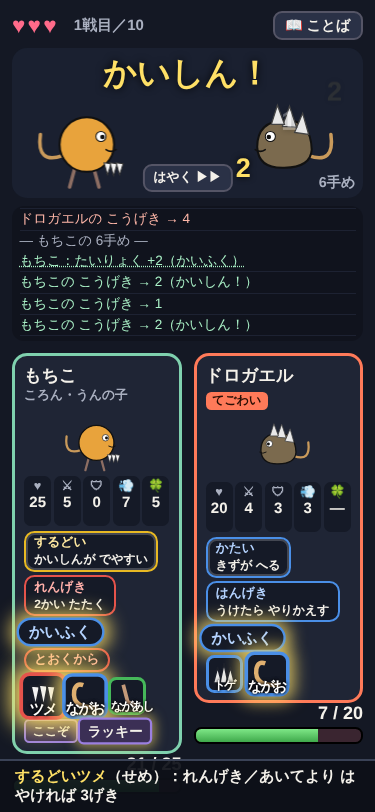
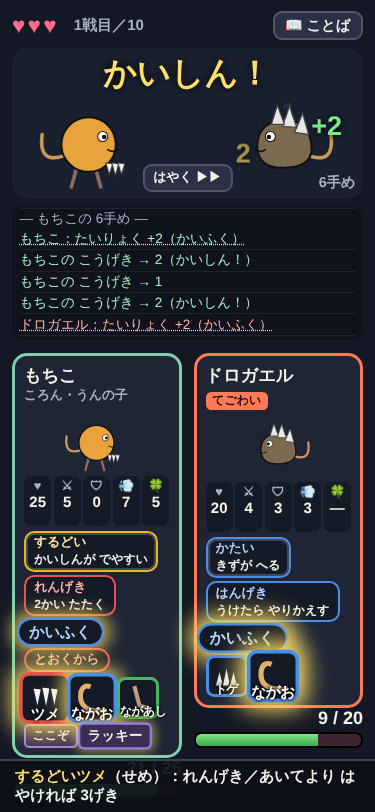
remake：確認役の 直した方がいい（スマホの 戦いの パーツの 札を 2.5 → 2.8rem に して 名前の 字の間を もとに。ワクからの はみ出しを へらす）
Claude-Session: https://claude.ai/code/session_01MmzYoR4bsrM2NAwQ26qNGw

diff --git a/remake/index.html b/remake/index.html
@@ -153,9 +153,8 @@ h2 { margin:.2rem 0 .5rem; font-size:1.3rem; }
   .stage2 { height: 10rem; } .stage2 .mp, .stage2 .ep { height:7rem; }
   .card .pic { height:4.5rem; }
   .logw { height: 9rem; }
-  .bw .card .ptiles .ptile { width:2.5rem; height:2.5rem; } .bw .card .ptiles .ptile svg { width:2rem; height:2rem; }
+  .bw .card .ptiles .ptile { width:2.8rem; height:2.8rem; } .bw .card .ptiles .ptile svg { width:2.2rem; height:2.2rem; }
   .bw > * { min-width:0; } .bw .card .nm { flex-wrap:wrap; } /* ながい 名前＋「てごわい」で カードが ひろがって 横に はみ出さない（「てごわい」は つぎの 行へ） */
-  .bw .card .ptiles .pname { letter-spacing:-.15em; } /* パーツの 名前は 12px 以上で、となりと 重ならない */
   .bw .card .stat b { font-size:1rem; }
   .kotgrid { grid-template-columns: 1fr; }
   .kw.knew { white-space:normal; border-radius:.7rem; } .kw .kwn { display:block; margin-left:0; }
